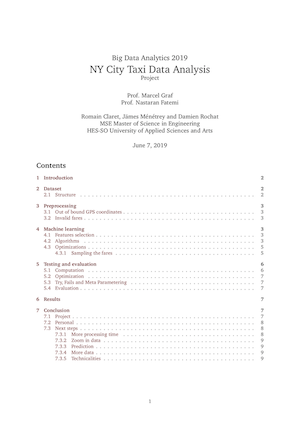
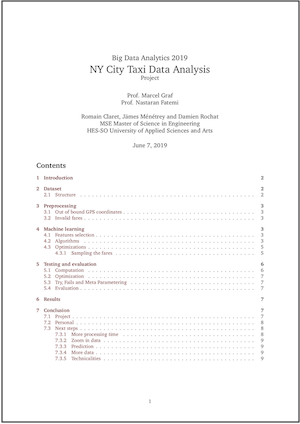
Update the preview of the report.

Changed region(s): [[0.0, 0.0, 1.0, 1.0]]

diff --git a/README.md b/README.md
@@ -12,7 +12,7 @@ The report can be downloaded at [this address](https://zenlulz.github.io/hesso-b
 
 <p align="center">
   <a href="https://zenlulz.github.io/hesso-bigdata-analytics/report/taxi-report.pdf">
-  <img width="300" height="424" style="border: 1px solid black;" src="https://zenlulz.github.io/hesso-bigdata-analytics/report/images/taxi-report-preview.png">
+  <img width="300" height="424" src="https://zenlulz.github.io/hesso-bigdata-analytics/report/images/taxi-report-preview.png">
   </a>
 </p>
 
